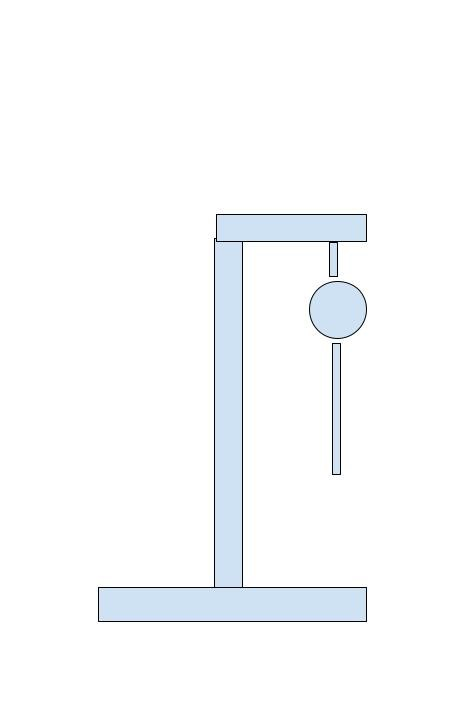
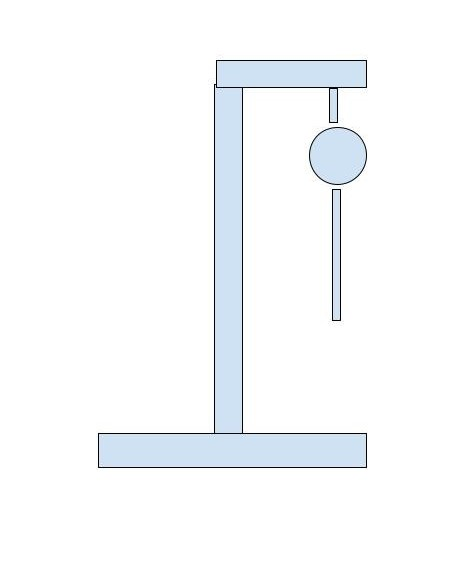
Fixed row/column issues, resized pictures to better fit

Changed region(s): [[0.2159, 0.0903, 0.8326, 0.8726]]

diff --git a/tshangman/src/App.tsx b/tshangman/src/App.tsx
@@ -11,9 +11,15 @@ function App(): JSX.Element {
     return (
       <Container className="App">
         <Row>
-          <Background></Background>
-          <WordProgress></WordProgress>
-          <Menu></Menu>
+          <Col>
+            <Background></Background>
+          </Col>
+          <Col>
+            <WordProgress></WordProgress>
+          </Col>
+          <Col>
+            <Menu></Menu>
+          </Col>
         </Row>          
       </Container> 
     );

diff --git a/tshangman/src/components/Menu.tsx b/tshangman/src/components/Menu.tsx
@@ -1,5 +1,5 @@
 
 
 export function Menu(): JSX.Element{
-    return <div>Here's where you'll enter letters and click buttons</div>
+    return <div>Here's where you'll enter letters</div>
 }
